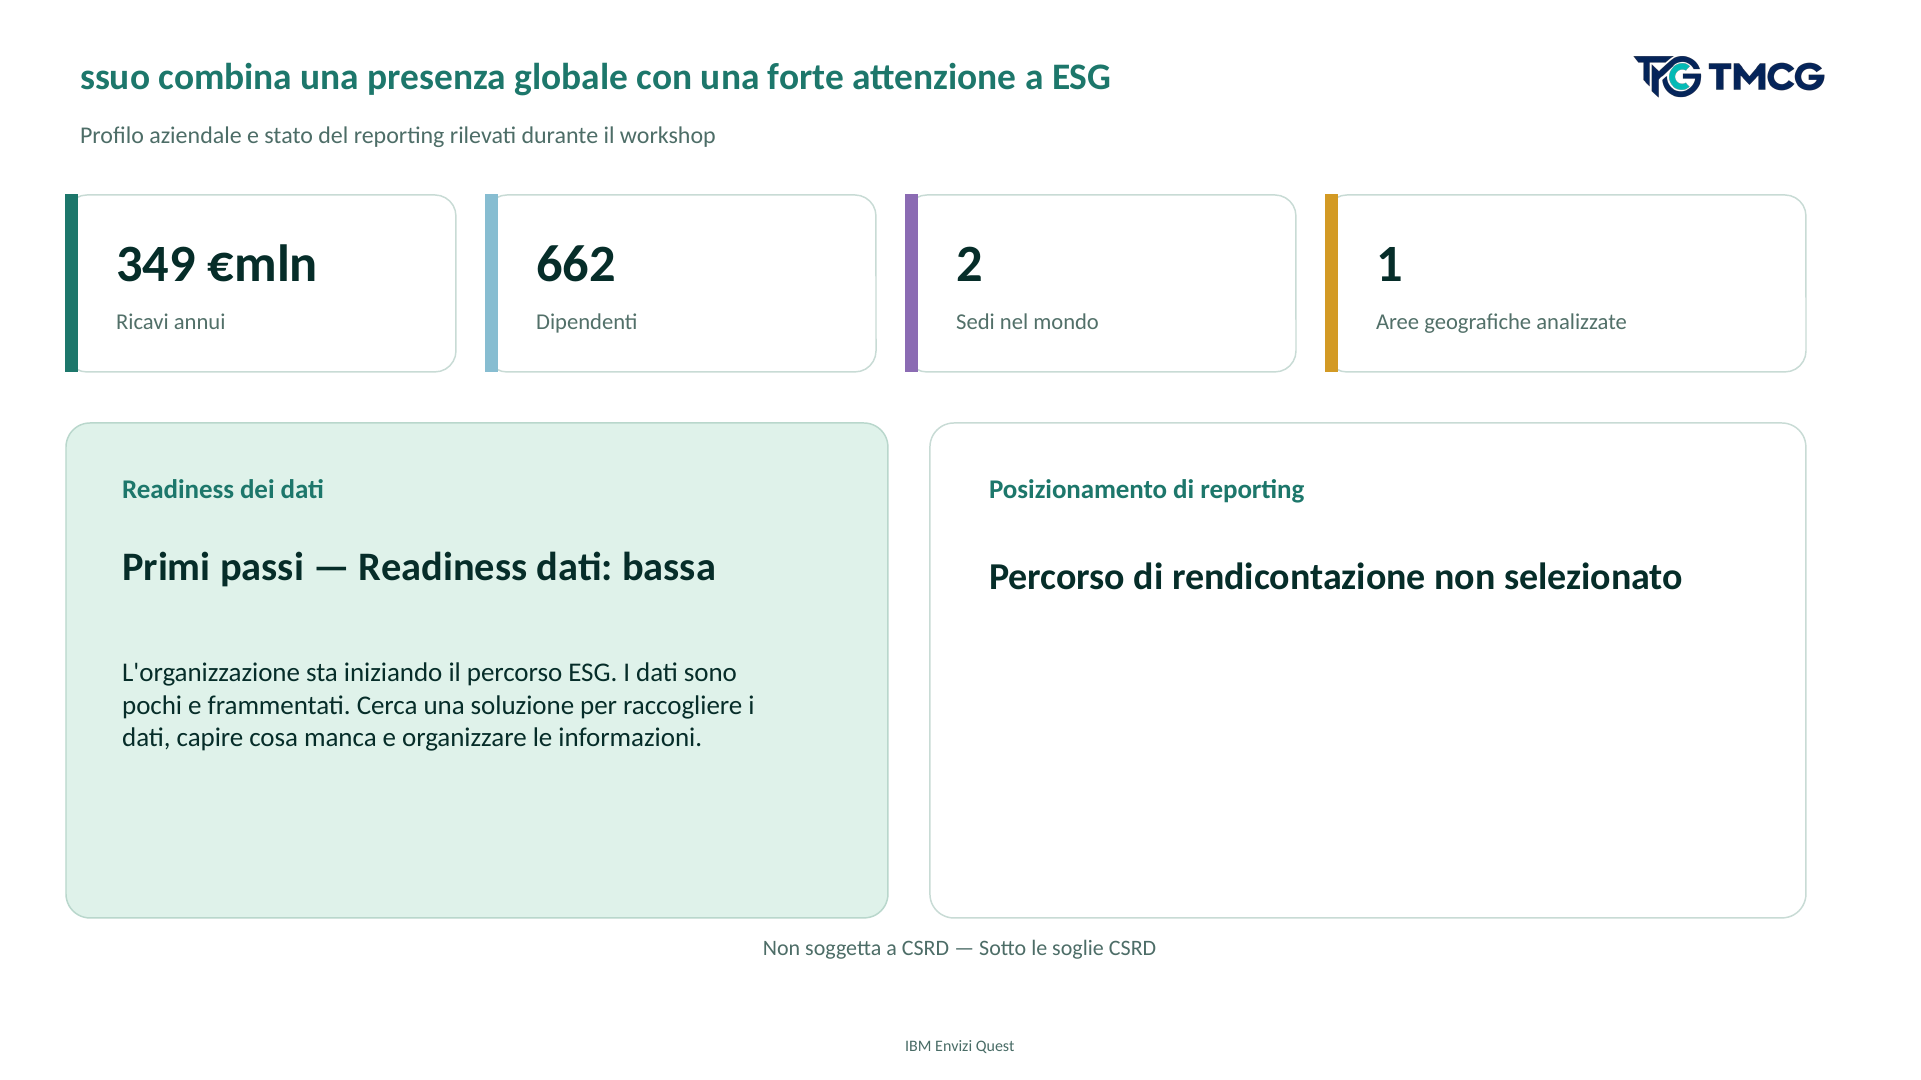
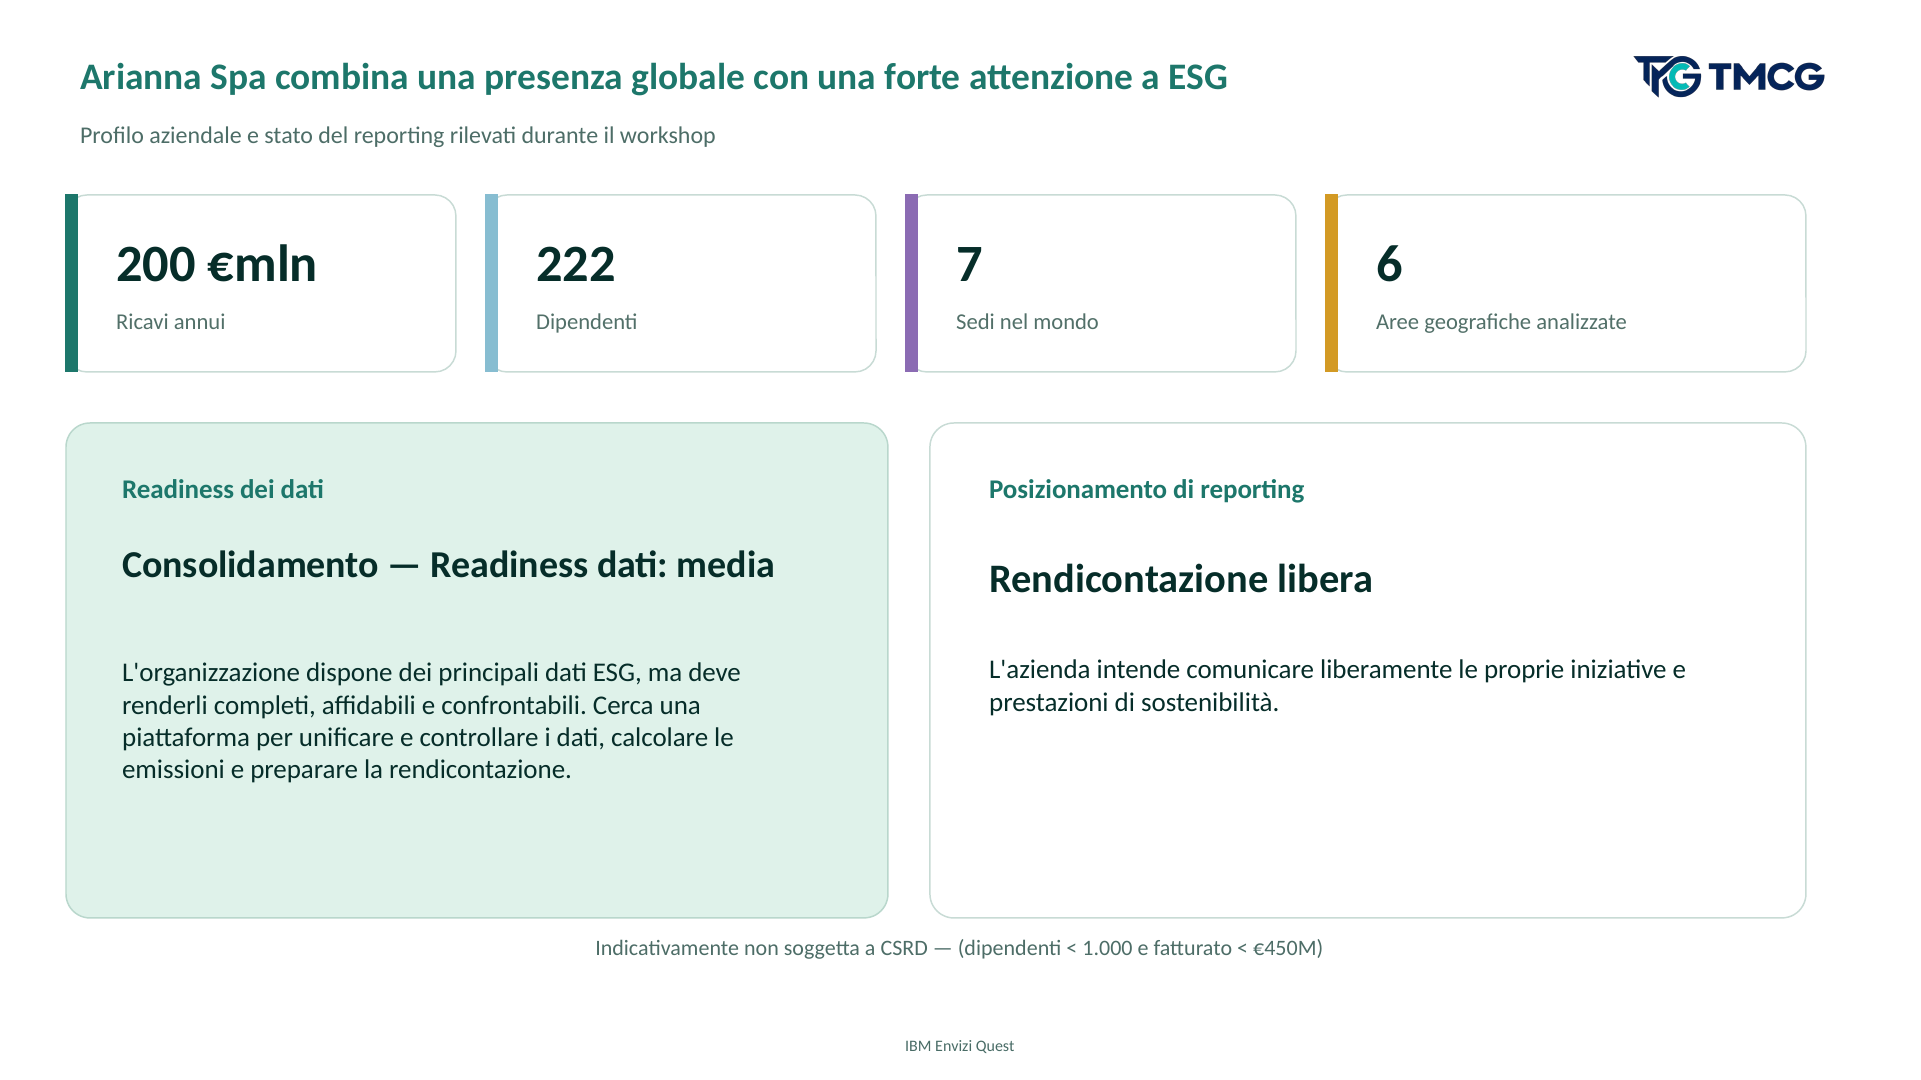
feat: CSRD link Consiglio UE cliccabile nel pptx slide 2 + testo aggiornato

diff --git a/source/src/App.tsx b/source/src/App.tsx
@@ -362,7 +362,7 @@ export default function Home(){
   const reset=()=>{setScreenState("onboarding");setScreenHistory([]);setProfile(null);setTrustScore(30);localStorage.removeItem("envizi-quest-trust-score")};
   useEffect(()=>{let button=document.getElementById("envizi-global-back") as HTMLButtonElement|null;if(!button){button=document.createElement("button");button.id="envizi-global-back";button.className="globalBack";button.type="button";document.body.appendChild(button)}button.innerHTML=`← <span>${language==="it"?"Indietro":"Back"}</span>`;button.disabled=!screenHistory.length;button.setAttribute("aria-label",language==="it"?"Torna alla pagina precedente":"Go back one page");const handleBack=()=>goBack();button.addEventListener("click",handleBack);return()=>button?.removeEventListener("click",handleBack)},[language,screenHistory]);
   useEffect(()=>()=>{document.getElementById("envizi-global-back")?.remove()},[]);
-  const ALL_SCREENS:Screen[]=["cover","welcome","onboarding","approach","chapterMap","sectionIntro1","questIntro","blank1","p10Slideshow","approachIntro","approachReport","intro","separatorNext","approachStepsCopy","companySetup","company","priorities","approachDataCopy","priorityData","priorityMatrix","ilTuoReport","chapterOneSummary","esgStrategist","challengeSeparator1","missionCard1","introCopy","roadmapPreview","bridge","missions","briefing","missionIntro","introCopy2","asis","compare","trust","tobe","negative","success","milestone","dataFoundation","dfConclusion","challengeComplete1","challengeSeparator2","missionCard2","energyFoundation","energyConclusion","challengeComplete2","challengeSeparator3","missionCard3","supplyFoundation","supplyConclusion","challengeComplete3","challengeSeparator4","missionCard4","planningFoundation","planningConclusion","challengeComplete4","challengeSeparator5","missionCard5","frameworkFoundation","frameworkConclusion","challengeComplete5","challengeSeparator6","missionCard6","reportingFoundation","reportingConclusion","challengeComplete6","summary","nextStep","thankYou"];
+  const ALL_SCREENS:Screen[]=["cover","welcome","onboarding","approach","chapterMap","sectionIntro1","questIntro","blank1","p10Slideshow","approachIntro","approachReport","intro","separatorNext","approachStepsCopy","sectionIntro2","companySetup","company","company2","sectionIntro3","priorities","approachDataCopy","priorityData","priorityMatrix","ilTuoReport","reportSlideshow","reportSlideshowPng","chapterOneSummary","esgStrategist","challengeSeparator1","missionCard1","introCopy","roadmapPreview","bridge","missions","briefing","missionIntro","introCopy2","asis","compare","trust","tobe","negative","success","milestone","dataFoundation","dfConclusion","challengeComplete1","challengeSeparator2","missionCard2","energyFoundation","energyConclusion","challengeComplete2","challengeSeparator3","missionCard3","supplyFoundation","supplyConclusion","challengeComplete3","challengeSeparator4","missionCard4","planningFoundation","planningConclusion","challengeComplete4","challengeSeparator5","missionCard5","frameworkFoundation","frameworkConclusion","challengeComplete5","challengeSeparator6","missionCard6","reportingFoundation","reportingConclusion","challengeComplete6","summary","sectionOutro","nextStep","thankYou"];
   const currentPageNum=ALL_SCREENS.indexOf(screen)+1||1;
   useEffect(()=>{let el=document.getElementById("envizi-page-num");if(!el){el=document.createElement("div");el.id="envizi-page-num";el.className="pageNum";document.body.appendChild(el)}el.textContent=`${String(currentPageNum).padStart(2,"0")} · ${screen}`;el.style.display="flex";},[screen,currentPageNum]);
   useEffect(()=>()=>{document.getElementById("envizi-page-num")?.remove()},[]);
@@ -594,8 +594,8 @@ export default function Home(){
       revenue:companyDims[0],dimUnit:isIt?sec2.dimUnit.it:sec2.dimUnit.en,
       employees:companyDims[4],plants:companyDims[1],offices:companyDims[2],dataCenters:companyDims[3],
       maturityTitle:activeReadiness2.label,maturityDesc:activeReadiness2.desc,
-      csrdLabel:isCsrd2?(isIt?"Soggetta a CSRD":"Subject to CSRD"):(isIt?"Non soggetta a CSRD":"Not subject to CSRD"),
-      csrdSub:isCsrd2?(isIt?"Oltre 1.000 dipendenti e €450M di fatturato":"Over 1,000 employees and €450M revenue"):(isIt?"Sotto le soglie CSRD":"Below CSRD thresholds"),
+      csrdLabel:isCsrd2?(isIt?"Soggetta a CSRD":"Subject to CSRD"):(isIt?"Indicativamente non soggetta a CSRD":"Indicatively not subject to CSRD"),
+      csrdSub:isCsrd2?(isIt?"Oltre 1.000 dipendenti e €450M di fatturato":"Over 1,000 employees and €450M revenue"):(isIt?"(dipendenti < 1.000 e fatturato < €450M)":"(employees < 1,000 and revenue < €450M)"),
       csrdNote:csrdNote||"",
       prioIntroText:isIt?prioDescIt2:prioDescEn2,
       prioItems:includedPrios2.map((p,i)=>({rank:i+1,name:(t.priorityNames as Record<Priority,string>)[p],detail:(t.priorityDetails as Record<Priority,string>)[p],note:prioExperience[p]||undefined})).sort((a,b)=>a.rank-b.rank),

diff --git a/source/src/screens/ReportSlideshow.tsx b/source/src/screens/ReportSlideshow.tsx
@@ -146,8 +146,10 @@ function SlideCompany({ d }: { d: ReportData }) {
             {/* CSRD */}
             <div style={{background:"#fff8ee",border:"1px solid #f5a623",borderRadius:10,padding:"10px 14px"}}>
               <div style={{fontSize:11,fontWeight:700,color:"#c05000",letterSpacing:".08em",textTransform:"uppercase",marginBottom:4}}>CSRD</div>
-              <div style={{fontSize:15,fontWeight:600,color:"#0a2a1a"}}>{d.csrdLabel}</div>
-              <div style={{fontSize:13,color:"#557"}}>{d.csrdSub}</div>
+              <div style={{fontSize:15,fontWeight:600,color:"#0a2a1a"}}>{d.csrdLabel} <span style={{fontWeight:400,fontSize:13,color:"#557"}}>{d.csrdSub}</span></div>
+              <div style={{marginTop:4}}>
+                <span onClick={()=>window.open("https://www.consilium.europa.eu/en/press/press-releases/2026/02/24/council-signs-off-simplification-of-sustainability-reporting-and-due-diligence-requirements-to-boost-eu-competitiveness/","_blank")} style={{fontSize:13,color:"#c05000",textDecoration:"underline",fontWeight:600,cursor:"pointer"}}>{isIt?"Consiglio dell'UE ↗":"EU Council ↗"}</span>
+              </div>
               {d.csrdNote&&<div style={{fontSize:12,color:"#888",fontStyle:"italic",marginTop:4}}>{d.csrdNote}</div>}
             </div>
             {/* Maturità ESG */}
@@ -228,7 +230,10 @@ function Slide2({ d }: { d: ReportData }) {
             <p style={{margin:0}}>{isIt?`${d.companyName} è un ${d.sectorLabel.toLowerCase()} presente a livello ${d.marketLabel}.`:`${d.companyName} is a ${d.sectorLabel.toLowerCase()} operating at ${d.marketLabel} level.`}</p>
             <p style={{margin:0}}>{isIt?`Nell'ultimo esercizio ha registrato ${d.revenue} ${d.dimUnit}.`:`In the last financial year it reported ${d.revenue} ${d.dimUnit}.`}</p>
             <p style={{margin:0}}>{isIt?`L'organizzazione occupa ${d.employees.toLocaleString()} dipendenti.`:`The organisation employs ${d.employees.toLocaleString()} employees.`}</p>
-            <p style={{margin:0,color:d.csrdLabel.includes("non")||d.csrdLabel.includes("Not")?"#888":"#c05000"}}>{d.csrdLabel} — {d.csrdSub}</p>
+            <p style={{margin:0,color:d.csrdLabel.includes("non")||d.csrdLabel.includes("Not")?"#888":"#c05000"}}>{d.csrdLabel} {d.csrdSub}</p>
+            <p style={{margin:"2px 0 0",fontSize:14}}>
+              <span onClick={()=>window.open("https://www.consilium.europa.eu/en/press/press-releases/2026/02/24/council-signs-off-simplification-of-sustainability-reporting-and-due-diligence-requirements-to-boost-eu-competitiveness/","_blank")} style={{color:"#c05000",textDecoration:"underline",fontWeight:600,cursor:"pointer"}}>{isIt?"Consiglio dell'UE ↗":"EU Council ↗"}</span>
+            </p>
             {d.csrdNote&&<p style={{margin:0,fontStyle:"italic",color:"#557"}}>{d.csrdNote}</p>}
             <div style={{marginTop:16,fontSize:17,lineHeight:1.9}}>
               <p style={{margin:0}}><strong>{isIt?"Sedi totali":"Total locations"}:</strong> {totalSedi||"—"}</p>
@@ -544,11 +549,14 @@ export function ReportSlideshow({ language, setLanguage, setScreen, reset, data 
   const isIt = language === "it";
 
   return (
-    <main style={{background:"#000",display:"grid",gridTemplateRows:"auto 1fr auto",height:"100dvh",overflow:"hidden"}}>
+    <main style={{background:"#000",display:"grid",gridTemplateRows:"auto 1fr auto",height:"1080px",overflow:"hidden"}}>
       <header style={{display:"flex",alignItems:"center",justifyContent:"space-between",padding:"10px 20px",background:"rgba(0,0,0,.85)",zIndex:10}}>
         <button className="brand brandButton" onClick={reset} style={{color:"#fff"}}><span className="brandMark">e·</span><span>Envizi<br/>Impact Quest</span></button>
         <span style={{color:"#c9e8dc",fontSize:"13px",fontWeight:700}}>{idx+1} / {total}</span>
-        <button onClick={()=>setScreen("ilTuoReport")} style={{background:"transparent",border:"1px solid #39efb4",color:"#39efb4",borderRadius:"4px",padding:"4px 10px",cursor:"pointer",fontSize:"13px",fontWeight:700}}>✕ {isIt?"Chiudi":"Close"}</button>
+        <div style={{display:"flex",alignItems:"center",gap:10}}>
+          {idx===1&&<button onClick={()=>window.open("https://www.consilium.europa.eu/en/press/press-releases/2026/02/24/council-signs-off-simplification-of-sustainability-reporting-and-due-diligence-requirements-to-boost-eu-competitiveness/","_blank")} style={{background:"transparent",border:"1px solid #f5a623",color:"#f5a623",borderRadius:"4px",padding:"4px 12px",cursor:"pointer",fontSize:"13px",fontWeight:700}}>{isIt?"Consiglio dell'UE ↗":"EU Council ↗"}</button>}
+          <button onClick={()=>setScreen("ilTuoReport")} style={{background:"transparent",border:"1px solid #39efb4",color:"#39efb4",borderRadius:"4px",padding:"4px 10px",cursor:"pointer",fontSize:"13px",fontWeight:700}}>✕ {isIt?"Chiudi":"Close"}</button>
+        </div>
       </header>
 
       {/* slide area — scala la slide 1280×720 nel viewport */}

diff --git a/source/src/generateTemplatePptx.ts b/source/src/generateTemplatePptx.ts
@@ -1224,15 +1224,32 @@ export async function generateTemplatePptx(data: SummaryPptxData): Promise<void>
     if (i === 2) {
       xmlStr = fixSlide2ReadinessFont(xmlStr);
 
+      // Add hyperlink relationship for Consiglio dell'UE
+      const csrdHlinkRid = "rId998";
+      const csrdHlinkUrl = "https://www.consilium.europa.eu/en/press/press-releases/2026/02/24/council-signs-off-simplification-of-sustainability-reporting-and-due-diligence-requirements-to-boost-eu-competitiveness/";
+      const relsPath2 = "ppt/slides/_rels/slide2.xml.rels";
+      const relsFile2 = zip.file(relsPath2);
+      if (relsFile2) {
+        let relsXml2 = await relsFile2.async("string");
+        if (!relsXml2.includes(csrdHlinkRid)) {
+          relsXml2 = relsXml2.replace(
+            "</Relationships>",
+            `<Relationship Id="${csrdHlinkRid}" Type="http://schemas.openxmlformats.org/officeDocument/2006/relationships/hyperlink" Target="${csrdHlinkUrl}" TargetMode="External"/></Relationships>`
+          );
+          zip.file(relsPath2, relsXml2);
+        }
+      }
+
       // Build CSRD sentence from csrdLabel (e.g. "Non soggetta a CSRD") + optional csrdSub
       const csrdSentence = data.csrdSub
         ? `${data.csrdLabel} — ${data.csrdSub}`
         : data.csrdLabel;
+      const csrdLinkLabel = isIt ? "Consiglio dell'UE" : "EU Council";
 
-      // Inject as a new text shape spanning the full width, just below the two card blocks
-      // Card blocks bottom: y=5829300; footer: y=6534150 → centre in gap ≈ y=5900000
+      // Inject as a new text shape: CSRD sentence + clickable link on same line
       const csrdRPr = `<a:rPr lang="it-IT" sz="1100" b="0" dirty="0"><a:solidFill><a:srgbClr val="4D6D67"/></a:solidFill><a:latin typeface="Calibri"/><a:ea typeface="Calibri"/><a:cs typeface="Calibri"/></a:rPr>`;
-      const csrdShapeXml = `<p:sp><p:nvSpPr><p:cNvPr id="997" name="csrd_sentence"/><p:cNvSpPr><a:spLocks noGrp="1"/></p:cNvSpPr><p:nvPr/></p:nvSpPr><p:spPr><a:xfrm><a:off x="419100" y="5880000"/><a:ext cx="11353800" cy="400000"/></a:xfrm><a:prstGeom prst="rect"><a:avLst/></a:prstGeom><a:noFill/></p:spPr><p:txBody><a:bodyPr><a:normAutofit/></a:bodyPr><a:lstStyle/><a:p><a:pPr algn="ctr"/><a:r>${csrdRPr}<a:t>${escapeXml(csrdSentence)}</a:t></a:r></a:p></p:txBody></p:sp>`;
+      const csrdLinkRPr = `<a:rPr lang="it-IT" sz="1100" b="1" dirty="0"><a:solidFill><a:srgbClr val="C05000"/></a:solidFill><a:latin typeface="Calibri"/><a:ea typeface="Calibri"/><a:cs typeface="Calibri"/><a:hlinkClick r:id="${csrdHlinkRid}" xmlns:r="http://schemas.openxmlformats.org/officeDocument/2006/relationships"/></a:rPr>`;
+      const csrdShapeXml = `<p:sp><p:nvSpPr><p:cNvPr id="997" name="csrd_sentence"/><p:cNvSpPr><a:spLocks noGrp="1"/></p:cNvSpPr><p:nvPr/></p:nvSpPr><p:spPr><a:xfrm><a:off x="419100" y="5880000"/><a:ext cx="11353800" cy="400000"/></a:xfrm><a:prstGeom prst="rect"><a:avLst/></a:prstGeom><a:noFill/></p:spPr><p:txBody><a:bodyPr><a:normAutofit/></a:bodyPr><a:lstStyle/><a:p><a:pPr algn="ctr"/><a:r>${csrdRPr}<a:t>${escapeXml(csrdSentence)}   </a:t></a:r><a:r>${csrdLinkRPr}<a:t>${escapeXml(csrdLinkLabel)} ↗</a:t></a:r></a:p></p:txBody></p:sp>`;
       xmlStr = xmlStr.replace("</p:spTree>", csrdShapeXml + "</p:spTree>");
     }
 

diff --git a/source/src/screens/CompanyScreens.tsx b/source/src/screens/CompanyScreens.tsx
@@ -236,7 +236,11 @@ export function CompanySetupScreen({
         <p className="eyebrow">{isIt?"RACCONTACI LA TUA AZIENDA":"TELL US ABOUT YOUR COMPANY"}</p>
         <h1 className="csTitle">{isIt?"La tua azienda":"Your company"}</h1>
         <div className="csFormOneCol">
-        <div className="csField csFieldName"><label>{isIt?"Nome Azienda":"Company Name"}<span className="csNameHint">{isIt?"· inserisci il nome della tua azienda":"· enter your company name"}</span></label><input className="csInput csInputName" placeholder={isIt?"Es. Acme S.p.A.":"E.g. Acme Ltd"} value={companyName||questName} onChange={e=>setCompanyName(e.target.value)}/></div>
+        <div className="csField csFieldName">
+          <label>{isIt?"Nome Azienda":"Company Name"}<span className="csNameHint">{isIt?"· inserisci il nome della tua azienda":"· enter your company name"}</span></label>
+          <input className="csInput csInputName" placeholder={isIt?"Es. Acme S.p.A.":"E.g. Acme Ltd"} value={companyName} onChange={e=>setCompanyName(e.target.value)}/>
+          {questName&&<p style={{margin:"4px 0 0",fontSize:"12px",color:"#6a9a88",lineHeight:1.4}}>{isIt?"Sessione:":"Session:"} <span style={{color:"#9abfb0"}}>{questName}</span></p>}
+        </div>
           <div className="csField">
             <label>{isIt?"Logo azienda (opzionale)":"Company logo (optional)"}</label>
             <div style={{display:"flex",alignItems:"center",gap:"10px",flexWrap:"wrap"}}>
